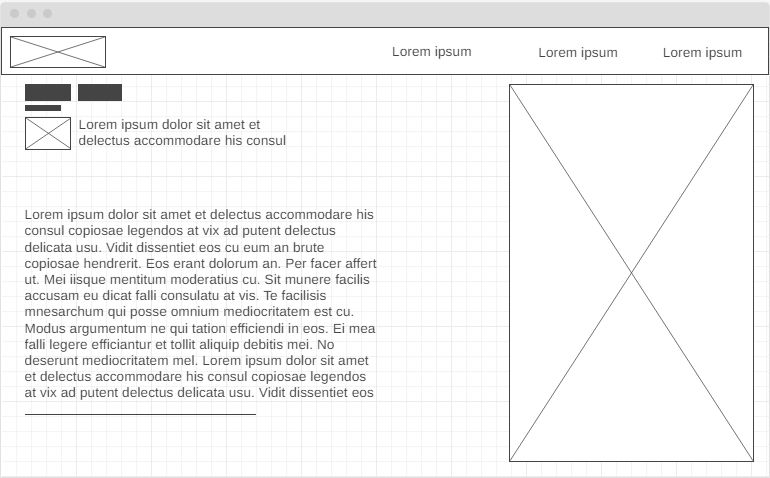
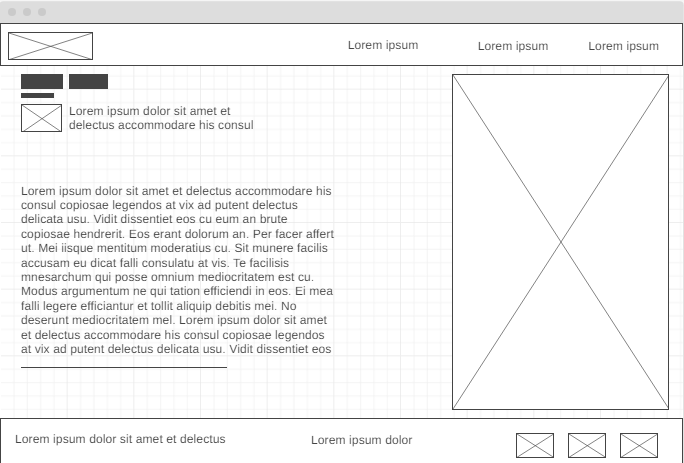
updated personal project

diff --git a/graphics/portfolio.html b/graphics/portfolio.html
@@ -1,0 +1,73 @@
+<!DOCTYPE html>
+<html lang="en">
+<head>
+    <meta charset="UTF-8">
+    <meta name="viewport" content="width=device-width, initial-scale=1.0">
+    <title>Danny Graphics | Portfolio</title>
+</head>
+<body>
+    <header>
+        <a id="logo" href="index.html" >
+            <img src="images/logo-1.png" alt="Danny Graphics Logo">
+        </a>
+        <nav>
+            <a href="index.html">Home</a>
+            <a href="aboutme.html">About Me</a>
+            <a href="portfolio.html">Portfolio</a>
+        </nav>
+    </header>
+    <main>
+       <h1>Portfolio: My Art</h1>
+       <h3>I'm passionate about all aspects of graphic design. See as you go through my works.</h3>
+       <section>
+            <img src="images/web2.png" alt="web designing">
+            <h4>Web Design</h4>
+            <p>Design of personal and professional web pages for clients in the arts, photography, design, and entertainment industries.</p>
+       </section> 
+       <section>
+            <img src="images/brand2.png" alt="brand identity">
+            <h4>Brand Design</h4>
+            <p>Visual identity that captures the essence of a brand and resonates with its target audience.</p>
+       </section>
+       <section>
+            <img src="images/print2.png" alt="poster design">
+            <h4>Poster Design</h4>
+            <p>Design that is visually captivating and informative, grabs attention and effectively communicate your message.</p>
+       </section>
+       <section>
+            <img src="images/print1.png" alt="print design">
+            <h4>Print Design</h4>
+            <p> Designs that are visually appealing and impactful that come to life on physical materials.</p>
+       </section>
+       <h1>Reach Out To Me</h1>
+       <section>
+            <h3>Address</h3>
+            <p>Lagos, Nigeria</p>
+       </section>
+       <section>
+            <h3>Email</h3>
+            <p>danzzy051@gmail.com</p>
+       </section>
+       <section>
+            <h3>Phone</h3>
+            <p>+2349024360862</p>`
+       </section>
+       <h3>Let's colaborate</h3>
+    </main>
+    <footer>
+        <p>Danny Graphics &copy; 2023 - Daniel Hassan Personal Project</p>
+        <p><a href="site-plan.html">Site Plan</a></p>
+        <div class="social">
+            <a href="https://facebook.com" target="_blank">
+                <img src="images/facebook.png" alt="fb icon">
+            </a>
+            <a href="https://twitter.com" target="_blank">
+                <img src="images/twitter.png" alt="twitter icon">
+            </a>
+            <a href="https://instagram.com" target="_blank">
+                <img src="images/instagram.png" alt="instagram icon">
+            </a>
+        </div>
+    </footer>
+</body>
+</html>

diff --git a/graphics/aboutme.html b/graphics/aboutme.html
@@ -1,0 +1,56 @@
+<!DOCTYPE html>
+<html lang="en">
+<head>
+    <meta charset="UTF-8">
+    <meta name="viewport" content="width=device-width, initial-scale=1.0">
+    <title>Danny Graphics | About Me</title>
+</head>
+<body>
+    <header>
+        <a id="logo" href="index.html" >
+            <img src="images/logo-1.png" alt="Danny Graphics Logo">
+        </a>
+        <nav>
+            <a href="index.html">Home</a>
+            <a href="aboutme.html">About Me</a>
+            <a href="portfolio.html">Portfolio</a>
+        </nav>
+    </header>
+    <main>
+        <h1>About Me</h1>
+        <img src="images/sub-mark-logo-1.png" alt="sub-mark logo">
+        <h2>Who is Daniel?</h2>
+        <p>I'm a graphic designer who grew up being motivated and inspired by arts, colors and writings(typography). Today, I'm a full-time creative freelancer who create illustrative elements of the products offered to photographing and preparing them for physical and web projects. 
+            I've worked with clients in various industries such as finance, publishing, fashion, music, arts and culture.
+            My Areas of Expertise Include:
+            <li>
+                <ul>>> Print Design</ul>
+                <ul>>> Brand Design</ul>
+                <ul>>> Poster Design</ul>
+                <ul>>> Web Design</ul>
+            </li>
+            I'm Proficient In:
+            <li>
+                <ul>>> Using Software for Layout Design and Editing</ul>
+                <ul>>> Proofing designs and getting them ready for both digital and print formats</ul>
+                <ul>>> Traditional and Experimental Graphic Design</p></ul>
+            </li>
+        </p>
+    </main>
+    <footer>
+        <p>Danny Graphics &copy; 2023 - Daniel Hassan Personal Project </p>
+        <p><a href="site-plan.html">Site Plan</a></p>
+        <div class="social">
+            <a href="https://facebook.com" target="_blank">
+                <img src="images/facebook.png" alt="fb icon">
+            </a>
+            <a href="https://twitter.com" target="_blank">
+                <img src="images/twitter.png" alt="twitter icon">
+            </a>
+            <a href="https://instagram.com" target="_blank">
+                <img src="images/instagram.png" alt="instagram icon">
+            </a>
+        </div>
+    </footer>
+</body>
+</html>

diff --git a/graphics/site-plan.html b/graphics/site-plan.html
@@ -4,7 +4,7 @@
     
   <head>
     <meta charset="utf-8">
-    <title>Site Plan</title>
+    <title>Danny Graphics | Site Plan</title>
     <link type="text/css" rel="stylesheet" href="styles/site-plan.css">
   </head>
 
@@ -87,9 +87,9 @@
       </h3>
       <!-- Think about how you want your navigation bar to look. In the site-plan.css file change the colors to your colors to get the look you desire. --> 
       <nav>
-        <a href="#">Home</a>
-        <a href="#">About Me</a>
-        <a href="#">Portfolio</a>
+        <a href="index.html">Home</a>
+        <a href="aboutme.html">About Me</a>
+        <a href="portfolio.html">Portfolio</a>
       </nav>
       <hr>
       <h2>
@@ -156,7 +156,7 @@
       <h3>Portfolio</h3>
       <p>
         I'm passionate about all aspects of graphic design. See as you go through my works.
-        Web Design: Design of personal and professional web pages for clients in the arts, photography, design, and entertainment industries.\
+        Web Design: Design of personal and professional web pages for clients in the arts, photography, design, and entertainment industries.
         Brand Design: Visual identity that captures the essence of a brand and resonates with its target audience.
         Poster Design: Design that is visually captivating and informative, grabs attention and effectively communicate your message.
         Print Design: Designs that are visually appealing and impactful that come to life on physical materials.

diff --git a/graphics/index.html b/graphics/index.html
@@ -1,0 +1,41 @@
+<!DOCTYPE html>
+<html lang="en">
+<head>
+    <meta charset="UTF-8">
+    <meta name="viewport" content="width=device-width, initial-scale=1.0">
+    <title>Danny Graphics | Home</title>
+</head>
+<body>
+    <header>
+        <a id="logo" href="index.html" >
+            <img src="images/logo-1.png" alt="Danny Graphics Logo">
+        </a>
+        <nav>
+            <a href="index.html">Home</a>
+            <a href="aboutme.html">About Me</a>
+            <a href="portfolio.html">Portfolio</a>
+        </nav>
+    </header>
+    <main>
+        <h1>Welcome to the World of Creativity, Feel free to Explore Custom Designs.</h1>
+        <h2>Hassan Daniel / Graphic Designer</h2>
+        <img src="images/img3.png" alt="face of the graphic designer">
+        <h3>Work with me today</h3>
+    </main>
+    <footer>
+        <p>Danny Graphics &copy; 2023 - Daniel Hassan Personal Project</p>
+        <p><a href="site-plan.html">Site Plan</a></p>
+        <div class="social">
+            <a href="https://facebook.com" target="_blank">
+                <img src="images/facebook.png" alt="fb icon">
+            </a>
+            <a href="https://twitter.com" target="_blank">
+                <img src="images/twitter.png" alt="twitter icon">
+            </a>
+            <a href="https://instagram.com" target="_blank">
+                <img src="images/instagram.png" alt="instagram icon">
+            </a>
+        </div>
+    </footer>
+</body>
+</html>

diff --git a/wwr/site-plan-rafting.html b/wwr/site-plan-rafting.html
@@ -98,9 +98,9 @@
     <h3>Navigation</h3>
     <!-- Think about how you want your navigation bar to look. In the site-plan.css file change the colors to your colors to get the look you desire. -->
     <nav>
-      <a href="#">Home</a>
-      <a href="#">Rivers</a>
-      <a href="#">Contact Us</a>
+      <a href="index.html">Home</a>
+      <a href="rivers.html">Rivers</a>
+      <a href="contactus.html">Contact Us</a>
     </nav>
     <hr />
     <h2>Site Map</h2>
